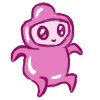
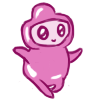
rendu 14 janvier
a faire :
action : se baisser

diff --git a/web-static/js/Player.js b/web-static/js/Player.js
@@ -18,27 +18,33 @@ var Player = function(assetManager){
 	this.x = 50;
 	this.y = 500;
 	this.baseY = 500;
-	this.width = 70;
-	this.height = 90;
+	this.width = 80;
+	this.height = 80;
 	this.health = 5;
-	this.centerX = 50; ////A regler > modifier le draw()
+	this.centerX = 50;
 	this.centerY = 50;
+	this.frameRate = 3;
 	
 		////Images du joueur
 	this.createSprite("Run", assetManager.getImage("JellykidRuns"), 200, 100, 2, 1, true);
+	this.createSprite("Jump1", assetManager.getImage("JellykidJump1"), 100, 100, 1, 1, true);
+	this.createSprite("Jump2", assetManager.getImage("JellykidJump2"), 100, 100, 1, 1, true);
+	this.createSprite("Run-red", assetManager.getImage("JellykidRuns-red"), 200, 100, 2, 1, true);
+	this.createSprite("Jump1-red", assetManager.getImage("JellykidJump1-red"), 100, 100, 1, 1, true);
+	this.createSprite("Jump2-red", assetManager.getImage("JellykidJump2-red"), 100, 100, 1, 1, true);
 	
 	this.setSprite("Run");
 	
-	this.currentSprite.setFrameRate(3);
+	this.currentSprite.setFrameRate(this.frameRate);
 	
 	for(var i in this.spriteList){
 		this.spriteList[i].setCenter(this.centerX, this.centerY);
 	}
 	
 		////Actions du Joueur
-	this.color = "black";
+	this.color = "blue";
 	this.isJumping = false;
-	this.JumpUpTime = 1200;
+	this.JumpUpTime = 1700;
 	this.JumpStartTime = 0;
 	
 	this.keylist = {};
@@ -50,24 +56,37 @@ Player.prototype.init = function(){
 };
 
 Player.prototype.Update = function(deltaTime, gameTime){
-
 	this.gameTime = gameTime;
+	this.currentSprite.setFrameRate(this.frameRate);
 	
 	if(this.isJumping)
 	{
 		if(gameTime - this.JumpStartTime < this.JumpUpTime)
 		{
 			this.Jump("up", deltaTime);
+			if(this.currentSprite != "Jump1" && this.color == "blue")
+				this.setSprite("Jump1");
+			else
+				this.setSprite("Jump1-red");
 		}
 		else if (gameTime - this.JumpStartTime < this.JumpUpTime * 2)
 		{
 			this.Jump("down", deltaTime);
+			if(this.currentSprite != "Jump2" && this.color == "blue")
+				this.setSprite("Jump2");
+			else
+				this.setSprite("Jump2-red");
 		}
 		else
 		{
 			this.isJumping = false;
 			if(this.y != this.baseY)
 				this.y = this.baseY;
+				
+			if (this.color == "blue")
+				this.setSprite("Run");
+			else
+				this.setSprite("Run-red");
 		}
 	}
 };
@@ -93,6 +112,8 @@ Player.prototype.onKeyDown = function(k){
 	}
 	
 	
+	
+	
 };
 
 
@@ -105,18 +126,20 @@ Player.prototype.changeColor = function(){
 	if(this.color == "blue")
 	{
 		this.color = "red";
+		this.setSprite("Run-red");
 	}
 	else
 	{
 		this.color = "blue";
+		this.setSprite("Run");
 	}
 }
 
 Player.prototype.Jump = function(moveDirection, deltaTime){
-	if(moveDirection == "up")
-		this.y -= 140 * deltaTime;
-	else if (moveDirection == "down")
-		this.y += 140 * deltaTime;
+	if(moveDirection == "up" && this.y > 310)
+		this.y -= 130 * deltaTime;
+	else if (moveDirection == "down" && this.y < this.baseY)
+		this.y += 130 * deltaTime;
 };
 
 

diff --git a/web-static/js/Game.js b/web-static/js/Game.js
@@ -15,7 +15,12 @@ var Game = function(){
 		"background": "/web-static/img/background.jpg",
 		"JellykidRuns": "/web-static/img/jellykidRuns.png",
 		"JellykidJump1": "/web-static/img/jellykid-jump1.png",
-		"JellykidJump2": "/web-static/img/jellykid-jump2.png"
+		"JellykidJump2": "/web-static/img/jellykid-jump2.png",
+		"JellykidRuns-red": "/web-static/img/jellykidRuns-red.png",
+		"JellykidJump1-red": "/web-static/img/jellykid_jump_red1.png",
+		"JellykidJump2-red": "/web-static/img/jellykid_jump_red2.png",
+		"Impossibear" : "/web-static/img/impossibear120.png",
+		"catbug" : "/web-static/img/catbug.png"
 	};
 	
 	var soundList = {};
@@ -27,7 +32,7 @@ var Game = function(){
 
 	player = new Player(this.assetManager);
 	enemy = new Enemy();
-	patternList = new PatternList();
+	patternList = new PatternList(this.assetManager);
 	enemyList = [];
 	
 	//camera = new Camera(player);
@@ -47,7 +52,7 @@ Game.prototype.mainLoop = function(){
 	player.Update(localTimeDelta / 1000, this.localTime);
 	
 	if(enemyList.length < 5){
-		patternList.AddPattern(enemyList, 1);
+		patternList.AddPattern(enemyList, 1, this.assetManager);
 	}
 	
 	
@@ -71,7 +76,7 @@ Game.prototype.mainLoop = function(){
 	player.render(graphics);
 	for (var i = 0; i < enemyList.length; i++)
 	{
-		enemyList[i].Draw(graphics);
+		enemyList[i].render(graphics);
 		this.CheckCollision(player, enemyList[i]);
 	}
 	//enemy.Draw(graphics);

diff --git a/web-static/js/Enemy.js b/web-static/js/Enemy.js
@@ -1,5 +1,8 @@
-var Enemy = function (){
+var Enemy = function (assetManager){
+
+	Character.call(this);
 	
+	this.assetManager = assetManager;
 	this.x = 400;
 	this.y = 100;
 	this.width = 25;
@@ -10,12 +13,38 @@ var Enemy = function (){
 	this.color = "black";
 }
 
-Enemy.prototype.init = function(x, y, color){
+Enemy.prototype = new Character();
+
+Enemy.prototype.init = function(x, color, type){
 	this.x = x;
-	this.y = y;
 	this.color = color;
 	this.active = true;
-
+	
+	switch(type){
+		case 1 :
+			this.createSprite("impossibear-idle", this.assetManager.getImage("Impossibear"), 120, 144, 1, 1, true);
+	
+			this.setSprite("impossibear-idle");
+			
+			this.currentSprite.setCenter(20, 100);
+			
+			this.y = 500;
+			this.width = 40;
+			this.height = 70;
+		break;
+		
+		case 2 :
+			this.createSprite("Catbug", this.assetManager.getImage("catbug"), 200, 100, 2, 1, true);
+	
+			this.setSprite("Catbug");
+			
+			this.currentSprite.setCenter(50, 50);
+			
+			this.y = 400;
+			this.width = 80;
+			this.height = 80;
+			
+	}
 }
 
 Enemy.prototype.Update = function(deltaTime)
@@ -30,9 +59,3 @@ Enemy.prototype.move = function(deltaTime)
 {
 	this.x -= this.speed * deltaTime;
 };
-
-Enemy.prototype.Draw = function(g)
-{
-	g.fillStyle = this.color;
-	g.fillRect(this.x - this.width/2, this.y - this.height/2, this.width, this.height);
-}

diff --git a/web-static/js/PatternList.js b/web-static/js/PatternList.js
@@ -1,5 +1,8 @@
-var PatternList = function(){
+var PatternList = function(assetManager){
 	self = this;
+	
+	this.assetManager = assetManager;
+	
 	p1 = [1, 1, 2, 1, 3, 1];
 
 
@@ -17,21 +20,21 @@ PatternList.prototype.AddPattern = function(enemyList, patternIndex){
 PatternList.prototype.AddEnnemies = function(enemyList, pattern){
 	for (var i = 0; i < pattern.length; i++)
 	{
-		enemy1 = new Enemy;
-		enemy2 = new Enemy;
+		enemy1 = new Enemy(this.assetManager);
+		enemy2 = new Enemy(this.assetManager);
 		
 		switch(pattern[i])
 		{
 			case 1 : 
-				enemy1.init(800 + 500 * i, 400, "black");
+				enemy1.init(800 + 600 * i, "black", 1);
 			break;
 			
 			case 2 :
-				enemy1.init(800 + 500 * i, 200, "black");
+				enemy1.init(800 + 500 * i, "black", 2);
 			
 			case 3 :
-				enemy1.init(800 + 500 * i, 400, "black");
-				enemy2.init(800 + 500 * i, 100, "blue");
+				enemy1.init(800 + 500 * i, "blue", 3);
+				enemy2.init(800 + 500 * i, "black", 4);
 			break;
 		}
 			

diff --git a/web-static/js/Character.js b/web-static/js/Character.js
@@ -15,21 +15,18 @@ Character.prototype.addPositionListener = function(listener){
 
 Character.prototype.createSprite = function(id, image, width, height, colCount, rowCount, loop){
 	this.spriteList[id] = new Sprite(id, image, width, height, colCount, rowCount, loop);
-	console.log("id : " + id);
 };
 
 
 Character.prototype.setSprite = function(anim, onComplete){
 	this.lastAnimId = anim;
 	var spriteId = anim;
-	console.log("sprite ID : " + spriteId);
 	if(this.currentSprite != this.spriteList[spriteId]){
 		if(!this.currentSprite || this.currentSprite.loop || this.currentSprite.currentFrame == this.currentSprite.frameCount - 1){
 			if(this.currentSprite){
 				this.currentSprite.stop();
 				this.currentSprite.hide();
 			}
-			console.log("sprite ID 2 : " + this.spriteList[spriteId]);
 			this.currentSprite = this.spriteList[spriteId];
 			this.currentSprite.resetAnim();
 			this.currentSprite.play(onComplete);
